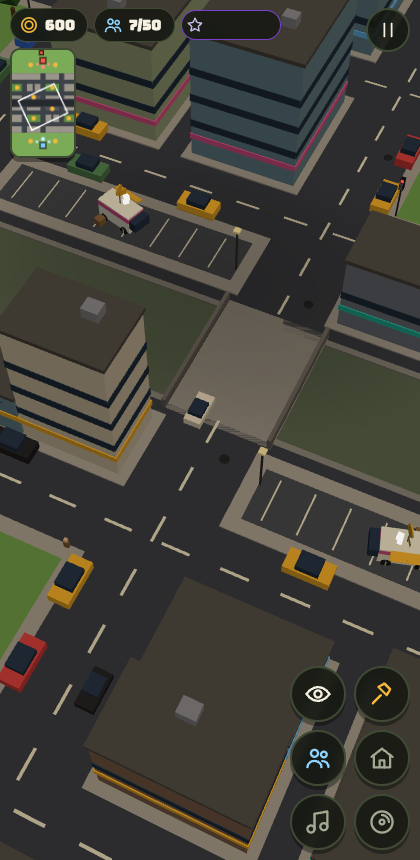
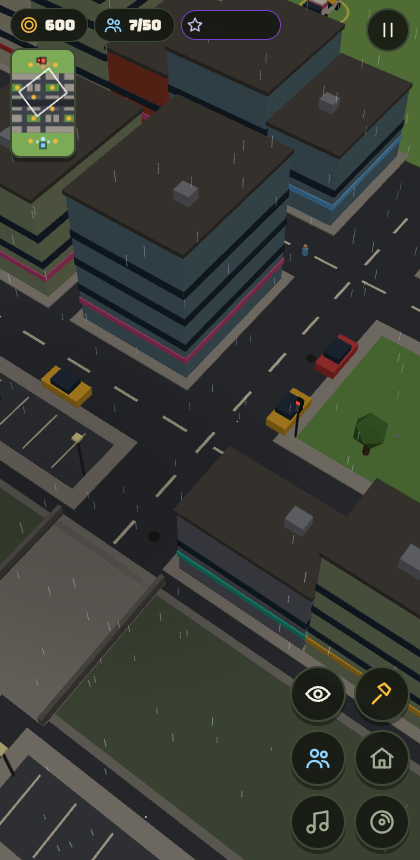
B105: Victory dance: when the match is decided, every surviving real character on the winning side dances on loop (moussa's three hip-hop clips, mixed per member) while the camera swoops; the losing side's survivors slump to the ground
Claude-Session: https://claude.ai/code/session_01FXzpagnksiDmMAqP3MTiXJ

diff --git a/src/render/sync.js b/src/render/sync.js
@@ -1,18 +1,18 @@
 // Mirrors sim state into the scene every frame. Reads the sim, never writes to it.
-import { THREE, scene, camera, mat, box, basic, ringMesh, disposeObj, casts } from './scene.js?v=104';
-import { makeMember, bldMesh, nodeMesh, formation, FC } from './models.js?v=104';
-import { makeChar, charsReady, play, CAST } from './chars.js?v=104';
-import { emit } from '../fx/particles.js?v=104';
-import { bark } from '../fx/sfx.js?v=104';
-import { TICK } from '../config/factions.js?v=104';
-import { walkH } from '../map/layout.js?v=104';
-import { NODE_AMOUNT, BLD, BUILD_RADIUS, FACTIONS } from '../config/factions.js?v=104';
-import { CAM } from '../camera/camera.js?v=104';
+import { THREE, scene, camera, mat, box, basic, ringMesh, disposeObj, casts } from './scene.js?v=105';
+import { makeMember, bldMesh, nodeMesh, formation, FC } from './models.js?v=105';
+import { makeChar, charsReady, play, CAST } from './chars.js?v=105';
+import { emit } from '../fx/particles.js?v=105';
+import { bark } from '../fx/sfx.js?v=105';
+import { TICK } from '../config/factions.js?v=105';
+import { walkH } from '../map/layout.js?v=105';
+import { NODE_AMOUNT, BLD, BUILD_RADIUS, FACTIONS } from '../config/factions.js?v=105';
+import { CAM } from '../camera/camera.js?v=105';
 const fac0 = (S) => FACTIONS[S.players[0].f];
-import { Q, pl, getSim } from '../sim/sim.js?v=104';
-import { UI } from '../ui/state.js?v=104';
-import { fxConfetti, fxDeath } from '../fx/fx.js?v=104';
-import { lerpAngle } from '../util/math.js?v=104';
+import { Q, pl, getSim } from '../sim/sim.js?v=105';
+import { UI } from '../ui/state.js?v=105';
+import { fxConfetti, fxDeath } from '../fx/fx.js?v=105';
+import { lerpAngle } from '../util/math.js?v=105';
 // Selection rings take your faction colour, washed toward white so they still pop on any ground.
 const selCol = () => { const S = getSim(), f = S && S.players[0].f; return f ? new THREE.Color(FC[f].main).lerp(new THREE.Color(0xffffff), 0.35).getHex() : 0xffffff; };
 
@@ -204,6 +204,11 @@ export function syncRender(S, alpha, dt, time) {
           continue;
         }
         alive++;
+        if (S.over) { // the match is decided: the winners dance (moussa's clips, on loop), the losers slump to the ground
+          if (s.owner === S.over.winner) { if (A.lock <= 0 || !String(A.cur).startsWith('dance')) play(m, 'dance' + ((i + s.id) % 3 + 1), true); }
+          else if (!m.userData.slump) { m.userData.slump = true; play(m, 'die', true); }
+          A.mixer.update(dt); continue;
+        }
         if (s.members[i] < m.userData.hp - 0.5) { m.userData.flashT = 0.16; if (!o.atk) play(m, 'hit'); }
         m.scale.set(1, 1, 1); squash(m, dt);
         m.userData.hp = s.members[i];

diff --git a/src/main.js b/src/main.js
@@ -1,22 +1,22 @@
 // Entry point: wires sim + render + input + UI and runs the fixed-step loop.
-import { renderer, scene, camera, followSun, THREE, setTimeOfDay } from './render/scene.js?v=104';
-import { buildWorld, updateWorld, setDusk, setRain } from './render/world.js?v=104';
-import { syncRender, clearRender, bump } from './render/sync.js?v=104';
-import { handleEvents, updateFx, clearFx } from './fx/fx.js?v=104';
-import { newSim, getSim, step } from './sim/sim.js?v=104';
-import { TICK } from './config/factions.js?v=104';
-import { CAM, applyCam, resetCam, onResize } from './camera/camera.js?v=104';
-import { initInput, lockPageZoom } from './input/input.js?v=104';
-import { refreshHUD, resetHUD, updatePlaceBar } from './ui/hud.js?v=104';
-import { resetUI } from './ui/state.js?v=104';
-import { fillIcons, svg } from './ui/icons.js?v=104';
-import { noteAlerts, updateAlert, clearAlert } from './ui/alert.js?v=104';
-import { updateMinimap } from './ui/minimap.js?v=104';
-import { isMuted, setMuted } from './fx/sfx.js?v=104';
-import { loadChars } from './render/chars.js?v=104';
-import { FC } from './render/models.js?v=104';
+import { renderer, scene, camera, followSun, THREE, setTimeOfDay } from './render/scene.js?v=105';
+import { buildWorld, updateWorld, setDusk, setRain } from './render/world.js?v=105';
+import { syncRender, clearRender, bump } from './render/sync.js?v=105';
+import { handleEvents, updateFx, clearFx } from './fx/fx.js?v=105';
+import { newSim, getSim, step } from './sim/sim.js?v=105';
+import { TICK } from './config/factions.js?v=105';
+import { CAM, applyCam, resetCam, onResize } from './camera/camera.js?v=105';
+import { initInput, lockPageZoom } from './input/input.js?v=105';
+import { refreshHUD, resetHUD, updatePlaceBar } from './ui/hud.js?v=105';
+import { resetUI } from './ui/state.js?v=105';
+import { fillIcons, svg } from './ui/icons.js?v=105';
+import { noteAlerts, updateAlert, clearAlert } from './ui/alert.js?v=105';
+import { updateMinimap } from './ui/minimap.js?v=105';
+import { isMuted, setMuted } from './fx/sfx.js?v=105';
+import { loadChars } from './render/chars.js?v=105';
+import { FC } from './render/models.js?v=105';
 
-export const BUILD = 104; // written by `npm run bump`
+export const BUILD = 105; // written by `npm run bump`
 lockPageZoom();
 fillIcons();
 buildWorld();

diff --git a/index.html b/index.html
@@ -6,7 +6,7 @@
 <meta name="viewport" content="width=device-width,initial-scale=1,maximum-scale=1,user-scalable=no,viewport-fit=cover">
 <link rel="preconnect" href="https://fonts.googleapis.com">
 <link rel="stylesheet" href="https://fonts.googleapis.com/css2?family=Bungee&family=Lilita+One&display=swap">
-<link rel="stylesheet" href="./src/ui/style.css?v=104">
+<link rel="stylesheet" href="./src/ui/style.css?v=105">
 <!-- No build step needed: GitHub Pages serves this file straight from main, so bare 'three' imports resolve here. -->
 <script type="importmap">
 { "imports": { "three": "./vendor/three/three.module.min.js", "three/examples/jsm/": "./vendor/three/jsm/" } }
@@ -34,7 +34,7 @@
 <div id="box"></div>
 <div id="holdRing" hidden></div>
 <div id="menu" class="overlay">
-  <h1>Culture <em>Wars</em><span>GREYBOX 04 · <b id="build">B104</b></span></h1>
+  <h1>Culture <em>Wars</em><span>GREYBOX 04 · <b id="build">B105</b></span></h1>
   <div class="diff" id="diff"><button type="button" data-d="0" aria-label="Easy"><span class="ic" data-i="star"></span></button><button type="button" data-d="1" class="on" aria-label="Normal"><span class="ic" data-i="star"></span><span class="ic" data-i="star"></span></button><button type="button" data-d="2" aria-label="Hard"><span class="ic" data-i="star"></span><span class="ic" data-i="star"></span><span class="ic" data-i="star"></span></button><i class="sep"></i><button type="button" class="mode" data-m="vs" aria-label="Versus"><span class="ic" data-i="home"></span></button><button type="button" class="mode" data-m="hill" aria-label="King of the Hill"><span class="ic" data-i="flag"></span></button><button type="button" class="mode" data-m="race" aria-label="Resource Race"><span class="ic" data-i="coin"></span></button></div>
   <div class="picks">
     <button class="pick" data-f="bw" type="button"><span class="ic" data-i="truck"></span>Backwoods<small>FEWER · TOUGHER</small></button>
@@ -63,6 +63,6 @@
   setTimeout(function () { if (!window.__cwBooted) show('Game script did not start (old cached file? wait a few minutes and reload)'); }, 8000);
 })();
 </script>
-<script type="module" src="./src/main.js?v=104" onerror="__cwLoadFail()"></script>
+<script type="module" src="./src/main.js?v=105" onerror="__cwLoadFail()"></script>
 </body>
 </html>

diff --git a/src/ui/hud.js b/src/ui/hud.js
@@ -1,15 +1,15 @@
 // HUD: resource chips, context panel, command buttons, floating placement confirm, long-press labels.
 // Buttons are described as data ("specs") each refresh; the DOM is rebuilt only when the set of buttons changes.
 // Every action goes through sim.command(); Q.* is used only for instant feedback (shake, dim).
-import { svg } from './icons.js?v=104';
-import { UI, select, selSquads } from './state.js?v=104';
-import { getSim, pl, fac, Q, command, count, cpUsed, cpCap, hqOf } from '../sim/sim.js?v=104';
-import { BLD, BUILD_KINDS, TRAIN_SLOTS, UPG, REQ } from '../config/factions.js?v=104';
-import { CAM, toggleView, focus } from '../camera/camera.js?v=104';
-import { camera } from '../render/scene.js?v=104';
-import { walkH } from '../map/layout.js?v=104';
-import { THREE } from '../render/scene.js?v=104';
-import { showHint } from './hint.js?v=104';
+import { svg } from './icons.js?v=105';
+import { UI, select, selSquads } from './state.js?v=105';
+import { getSim, pl, fac, Q, command, count, cpUsed, cpCap, hqOf } from '../sim/sim.js?v=105';
+import { BLD, BUILD_KINDS, TRAIN_SLOTS, UPG, REQ } from '../config/factions.js?v=105';
+import { CAM, toggleView, focus } from '../camera/camera.js?v=105';
+import { camera } from '../render/scene.js?v=105';
+import { walkH } from '../map/layout.js?v=105';
+import { THREE } from '../render/scene.js?v=105';
+import { showHint } from './hint.js?v=105';
 
 const panelEl = document.getElementById('panel'), cmdEl = document.getElementById('cmd'), queueEl = document.getElementById('queue');
 const placeBar = document.getElementById('placeBar'), tipEl = document.getElementById('tip');

diff --git a/src/input/input.js b/src/input/input.js
@@ -4,13 +4,13 @@
 //   hold then drag  = box select
 //   2 fingers       = pinch zoom + twist to rotate + drag to pan
 //   mouse: right-drag = box select, wheel = zoom; keys WASD/arrows pan, Q/E rotate, V ghost cam, Esc cancel
-import { THREE, camera, canvas } from '../render/scene.js?v=104';
-import { walkH } from '../map/layout.js?v=104';
-import { getSim, command } from '../sim/sim.js?v=104';
-import { UI, select, selSquads } from '../ui/state.js?v=104';
-import { CAM, panBy, clampCam, toggleView, pxPerUnit } from '../camera/camera.js?v=104';
-import { fxMarker } from '../fx/fx.js?v=104';
-import { ack } from '../render/sync.js?v=104';
+import { THREE, camera, canvas } from '../render/scene.js?v=105';
+import { walkH } from '../map/layout.js?v=105';
+import { getSim, command } from '../sim/sim.js?v=105';
+import { UI, select, selSquads } from '../ui/state.js?v=105';
+import { CAM, panBy, clampCam, toggleView, pxPerUnit } from '../camera/camera.js?v=105';
+import { fxMarker } from '../fx/fx.js?v=105';
+import { ack } from '../render/sync.js?v=105';
 
 const ray = new THREE.Raycaster(), ndc = new THREE.Vector2(), tmp = new THREE.Vector3();
 export function groundAt(cx, cy) {

diff --git a/src/fx/fx.js b/src/fx/fx.js
@@ -1,12 +1,12 @@
 // Visual effects. Reads sim events, never changes the sim.
 // To add an effect for a new mechanic: emit S.events.push({k:'myThing', ...}) in the sim,
 // then add a case in handleEvents below.
-import { THREE, scene, mat, cyl, basic, disposeObj } from '../render/scene.js?v=104';
-import { walkH } from '../map/layout.js?v=104';
-import { sfx } from './sfx.js?v=104';
-import { shake, CAM } from '../camera/camera.js?v=104';
-import { FC } from '../render/models.js?v=104';
-import { emit, updateParticles, clearParticles, burstHit, burstShot, burstCoins } from './particles.js?v=104';
+import { THREE, scene, mat, cyl, basic, disposeObj } from '../render/scene.js?v=105';
+import { walkH } from '../map/layout.js?v=105';
+import { sfx } from './sfx.js?v=105';
+import { shake, CAM } from '../camera/camera.js?v=105';
+import { FC } from '../render/models.js?v=105';
+import { emit, updateParticles, clearParticles, burstHit, burstShot, burstCoins } from './particles.js?v=105';
 
 const fx = [];
 function addFx(obj, life, upd) { scene.add(obj); fx.push({ obj, life, t: 0, upd }); }

diff --git a/src/render/world.js b/src/render/world.js
@@ -1,10 +1,10 @@
 // Static city: streets, sidewalks, buildings, parks, freeway trench + overpasses, ambient traffic.
 // Built once from map/layout.js. Mostly InstancedMesh so it stays cheap on phones.
-import { THREE, scene, mat, box, setOvercast } from './scene.js?v=104';
-import { CAM } from '../camera/camera.js?v=104';
-import { MAP, BLOCKS, TREES, PARKED, TRENCH, OVERPASSES, AVENUES, CROSS_STREETS, HOME_Z, inRect, walkH } from '../map/layout.js?v=104';
-import { hash } from '../util/math.js?v=104';
-import { emit } from '../fx/particles.js?v=104';
+import { THREE, scene, mat, box, setOvercast } from './scene.js?v=105';
+import { CAM } from '../camera/camera.js?v=105';
+import { MAP, BLOCKS, TREES, PARKED, TRENCH, OVERPASSES, AVENUES, CROSS_STREETS, HOME_Z, inRect, walkH } from '../map/layout.js?v=105';
+import { hash } from '../util/math.js?v=105';
+import { emit } from '../fx/particles.js?v=105';
 
 const COL = {
   asphalt: 0x3d4148, sidewalk: 0xa8a49a, grass: 0x6f9e50, lawn: 0x7cab58, lot: 0x4b4f56, stripe: 0xe8e2c8,

diff --git a/src/sim/sim.js b/src/sim/sim.js
@@ -9,11 +9,11 @@
 import {
   TICK, START_CASH, BUILD_RADIUS, MAX_WORKERS, NODE_AMOUNT, GATHER_T, CARRY, BASE_INCOME, DEPOT_INCOME,
   COUNTER, REQ, UPG, UPT, BLD, FACTIONS,
-} from '../config/factions.js?v=104';
-import { MAP, NODES, BASES, walkH } from '../map/layout.js?v=104';
-import { markCircle, isBlocked, lineClear, nearestFree, findPath, blocked, cellOf, cellCenter, inGrid } from '../map/grid.js?v=104';
-import { mulberry32 } from '../util/math.js?v=104';
-import { aiStep } from './ai.js?v=104';
+} from '../config/factions.js?v=105';
+import { MAP, NODES, BASES, walkH } from '../map/layout.js?v=105';
+import { markCircle, isBlocked, lineClear, nearestFree, findPath, blocked, cellOf, cellCenter, inGrid } from '../map/grid.js?v=105';
+import { mulberry32 } from '../util/math.js?v=105';
+import { aiStep } from './ai.js?v=105';
 
 let S = null;
 export const getSim = () => S;

diff --git a/src/ui/minimap.js b/src/ui/minimap.js
@@ -1,8 +1,8 @@
 // Minimap, top-left under the resource chips. Fixed orientation: your base at the bottom (+z), enemy at the top.
 // Tap or drag on it to move the camera there. Static city is drawn once; units/buildings redraw ~10x a second.
-import { MAP, BLOCKS, TRENCH } from '../map/layout.js?v=104';
-import { CAM, focus } from '../camera/camera.js?v=104';
-import { getSim } from '../sim/sim.js?v=104';
+import { MAP, BLOCKS, TRENCH } from '../map/layout.js?v=105';
+import { CAM, focus } from '../camera/camera.js?v=105';
+import { getSim } from '../sim/sim.js?v=105';
 
 const cv = document.getElementById('mini'), ctx = cv.getContext('2d');
 const bg = document.createElement('canvas'), bctx = bg.getContext('2d');

diff --git a/src/ui/alert.js b/src/ui/alert.js
@@ -1,9 +1,9 @@
 // Under-attack alert: when something of yours is hit somewhere the camera is not looking, a red arrow pulses on
 // the screen edge pointing at it. Tap the arrow to fly there. Newest fight wins; it fades 5 s after the last hit.
-import { THREE, camera } from '../render/scene.js?v=104';
-import { walkH } from '../map/layout.js?v=104';
-import { focus } from '../camera/camera.js?v=104';
-import { svg } from './icons.js?v=104';
+import { THREE, camera } from '../render/scene.js?v=105';
+import { walkH } from '../map/layout.js?v=105';
+import { focus } from '../camera/camera.js?v=105';
+import { svg } from './icons.js?v=105';
 
 const el = document.getElementById('alert');
 el.innerHTML = svg('up');

diff --git a/src/render/chars.js b/src/render/chars.js
@@ -2,7 +2,7 @@
 // clips drives all of them: the clips come from three DONOR files and are retargeted onto each rig by bone name.
 // Nothing here is required: until the files load (or if they fail, e.g. the single-file artifact build) the
 // box placeholders in models.js are used, and sync.js swaps squads over once this reports ready.
-import { THREE } from './scene.js?v=104';
+import { THREE } from './scene.js?v=105';
 import { GLTFLoader } from 'three/examples/jsm/loaders/GLTFLoader.js';
 import { DRACOLoader } from 'three/examples/jsm/loaders/DRACOLoader.js';
 import { clone as skClone } from 'three/examples/jsm/utils/SkeletonUtils.js';

diff --git a/src/render/models.js b/src/render/models.js
@@ -2,7 +2,7 @@
 // SWAP POINT FOR REAL ART: replace makeMember / bldMesh / nodeMesh bodies with GLB clones.
 // Keep the same contract: return a THREE.Group, feet at y=0, facing +z, roughly to the scale below
 // (humans ~1.6 m, monster truck ~3 m long). userData.legs (optional) = [leftLeg, rightLeg] for walk swing.
-import { THREE, box, cyl, mat } from './scene.js?v=104';
+import { THREE, box, cyl, mat } from './scene.js?v=105';
 
 export const FC = {
   bw: { main: 0xe8792b, dark: 0x5a3a22, skin: 0xf2c9a0, alt: 0x3d5a80, hair: 0x4a2e1a },
